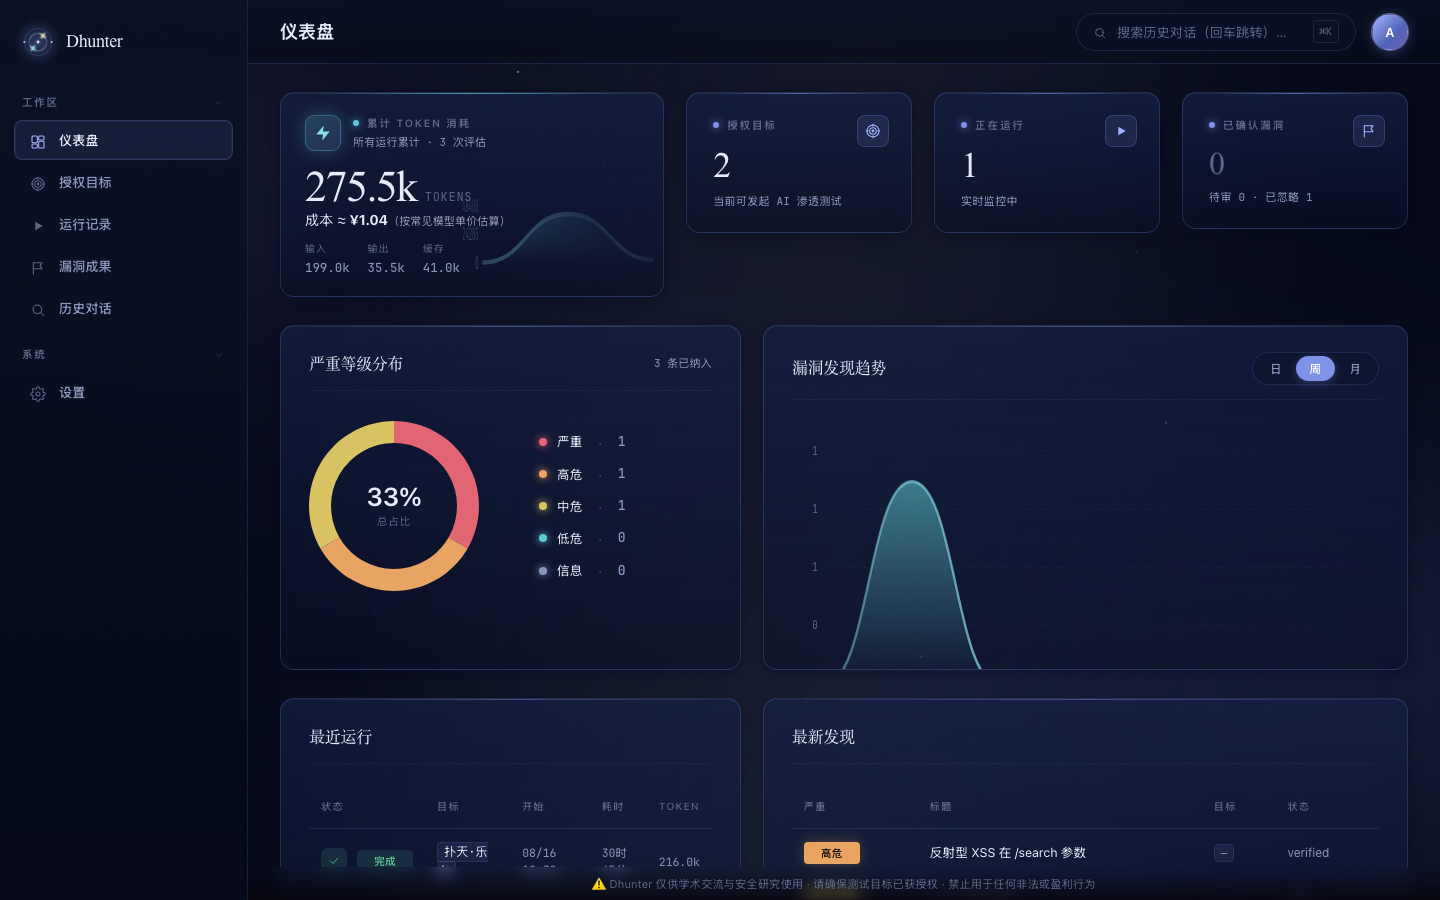
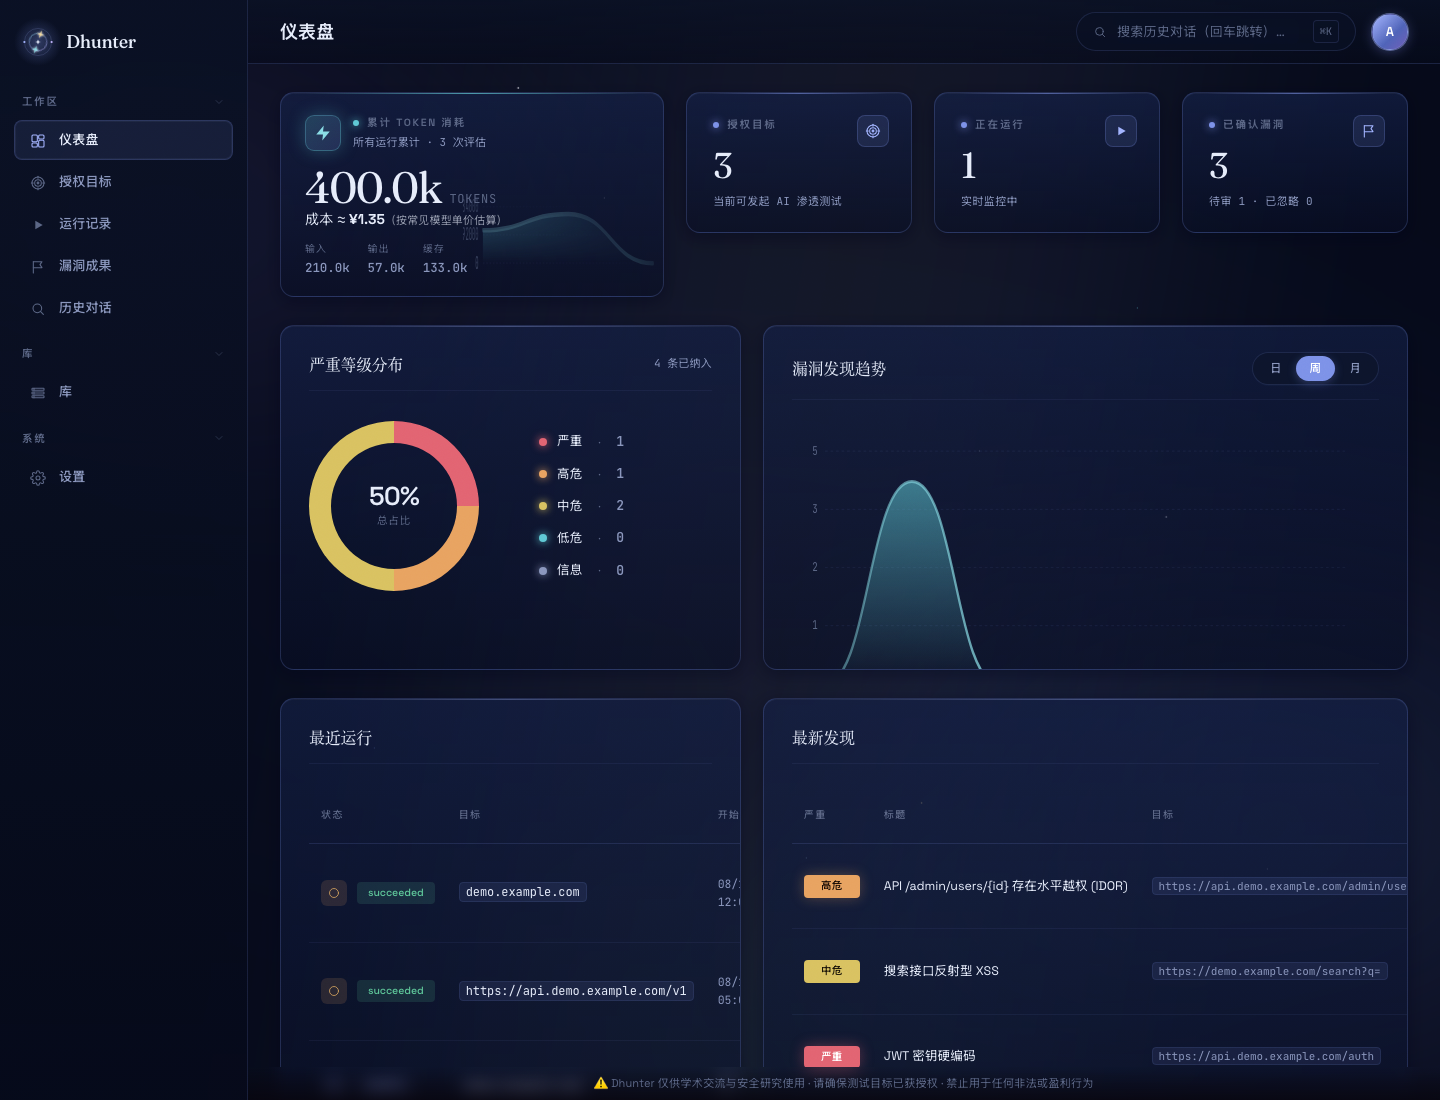
docs: README 全面更新 — 加入 v0.7.1 库 / MCP 扩展 / External 工具相关章节与截图
- 新增 'v0.7.1 新增' 段：MCP 扩展中心 + Skills + 模板 + EXTERNAL 标签
- 核心特性表加入 🔌 MCP 扩展中心、🧰 库 / Skills / 模板 两行
- 截图区加入 library-mcp / library-skills / run-tools-external 三张新图
- 旧截图 (search.png 替换位置到 run-tools-external.png) 反映新的 RunDetail UI

diff --git a/README.md b/README.md
@@ -34,13 +34,35 @@
 
 <p align="center">
   <img src="assets/screenshots/targets.png" width="49%" alt="授权目标管理（含并发设置/导出/删除）" />
-  <img src="assets/screenshots/search.png" width="49%" alt="历史对话全文搜索" />
+  <img src="assets/screenshots/run-tools-external.png" width="49%" alt="工具活动面板（External MCP 工具高亮）" />
+</p>
+
+<p align="center">
+  <img src="assets/screenshots/library-mcp.png" width="49%" alt="库 → MCP 扩展中心" />
+  <img src="assets/screenshots/library-skills.png" width="49%" alt="库 → Skills（官方+自定义）" />
 </p>
 
 <p align="center">
   <img src="assets/screenshots/report.png" width="49%" alt="Markdown 漏洞报告" />
   <img src="assets/screenshots/settings.png" width="49%" alt="设置：模型/账号/并发/清空数据" />
 </p>
+
+## ✨ v0.7.1 新增（库 / MCP 扩展中心 / External 工具）
+
+> 新增一级菜单 **库**（侧栏中部），里面分三个 tab：
+
+**MCP 扩展** — 把你自己的 MCP server 接进来。工具以 `<server>::<tool>` 命名空间暴露给 Agent，与内置 22 个工具并行。修改后点「同步到 Agent」即时生效，不必重启。
+
+- 每行显示「● Agent 已同步 · 58 秒前」+ per-row 状态指示（绿/红/灰点 + 工具数）
+- 私网 / loopback / 云元数据 URL 自动加 ⚠ 黄色提示（不阻断，本地 MCP 合法）
+- Token 仅在 Create 响应中明文返回一次
+- 工具数量上限保护（单 server 100，整个 external 池 300）
+
+**Skills** — agent 的可复用工作流（系统 prompt / 提示策略），按场景启用。3 个内置技能种子（Web 攻击面排查 / API Fuzz 工作流 / 漏洞报告写作），可基于此创建自定义副本。
+
+**模板** — 行业场景包（OWASP Top 10、API Fuzz 入门、JS 深度审计），一键导入。
+
+RunDetail 工具活动面板：命名空间工具自动加 `EXTERNAL` 标签，与内置工具一眼区分。
 
 ## ✨ 核心特性
 
@@ -51,11 +73,13 @@
 | ⚔ **主动测试** | HTTP 手工探测、参数 fuzz、认证绕过、信息泄露路径、业务逻辑测试，agent 自主选工具 |
 | 🛡 **SRC 验收门禁** | verifier 对每条漏洞做**机械重放 + 稳定性检查**：同一 PoC 两次结果不一致 = 时变噪声 → 自动驳回，杜绝误报 |
 | 🎯 **漏洞优先验证** | worker 每落地一条漏洞立即触发 verifier 机械重放验证，不用等扫描结束 |
+| 🔌 **MCP 扩展中心** | 把你自己的 MCP server 接进来，工具以 `<server>::<tool>` 命名空间暴露，UI 一键增删测 + 同步到 agent |
+| 🧰 **库 / Skills / 模板** | 一级菜单「库」聚合 MCP / Skills / 模板三类可复用资产，3 个内置 skill 种子可基于此创建自定义副本 |
 | 🧵 **每项目并发设置** | 创建目标时可指定并发 worker 数，深挖大目标时加大并发、小目标降速省 token |
 | ⏸ **运行暂停/恢复** | 随时暂停 run（保留已发现的黑板），之后一键「继续」从断点恢复 |
 | 📦 **项目一键导出** | 目标卡上「导出报告」一键打包该项目全部漏洞为 Markdown（含 PoC/复现/证据） |
-| ⚡ **实时思考流** | SSE 实时推送 agent 的思考、工具调用、工具结果，整个过程透明可见 |
-| 📄 **一键报告** | 每次运行导出 Markdown 报告 |
+| ⚡ **实时思考流** | SSE 实时推送 agent 的思考、工具调用、工具结果，整个过程透明可见；命名空间工具带 EXTERNAL 标签 |
+| 📄 **一键报告** | 每次运行导出 Markdown 报告（v0.6.0 起 PoC 块带 verifier 机械复现记录 + curl 复现命令） |
 | 🔐 **首启自动账号** | 首次运行自动生成管理账号（用户名 + 随机密码），横幅展示，之后可在设置页修改 |
 | 💻 **跨平台** | macOS / Linux / Windows 三平台启动脚本，Go 纯静态二进制（无 CGO） |
 
